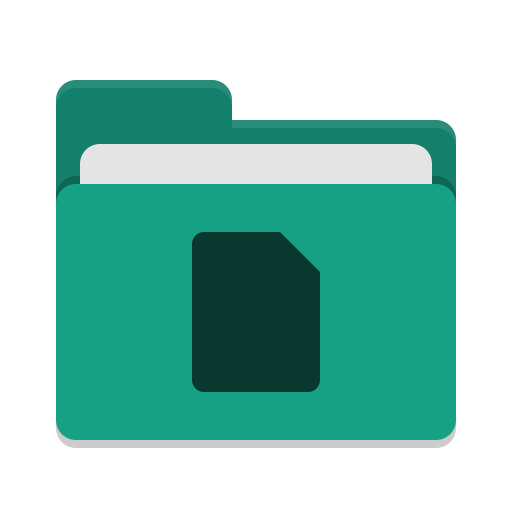
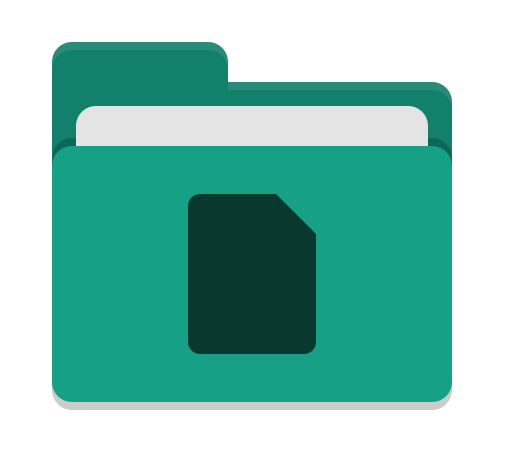
crop whitespace on folder image

Changed region(s): [[0.0891, 0.0888, 0.9208, 0.8879]]

diff --git a/app/styles/index.css b/app/styles/index.css
@@ -19,7 +19,7 @@ body {
 
 .folder-container {
   width: 90px;
-  height: 120px;
+  height: 90px;
   touch-action: none;
 }
 
@@ -35,8 +35,8 @@ body {
 }
 
 .link-container > img {
-  width: 9.4rem;
-  height: 9.4rem;
+  width: 7.5rem;
+  height: 7rem;
 }
 
 .link-container > p {
